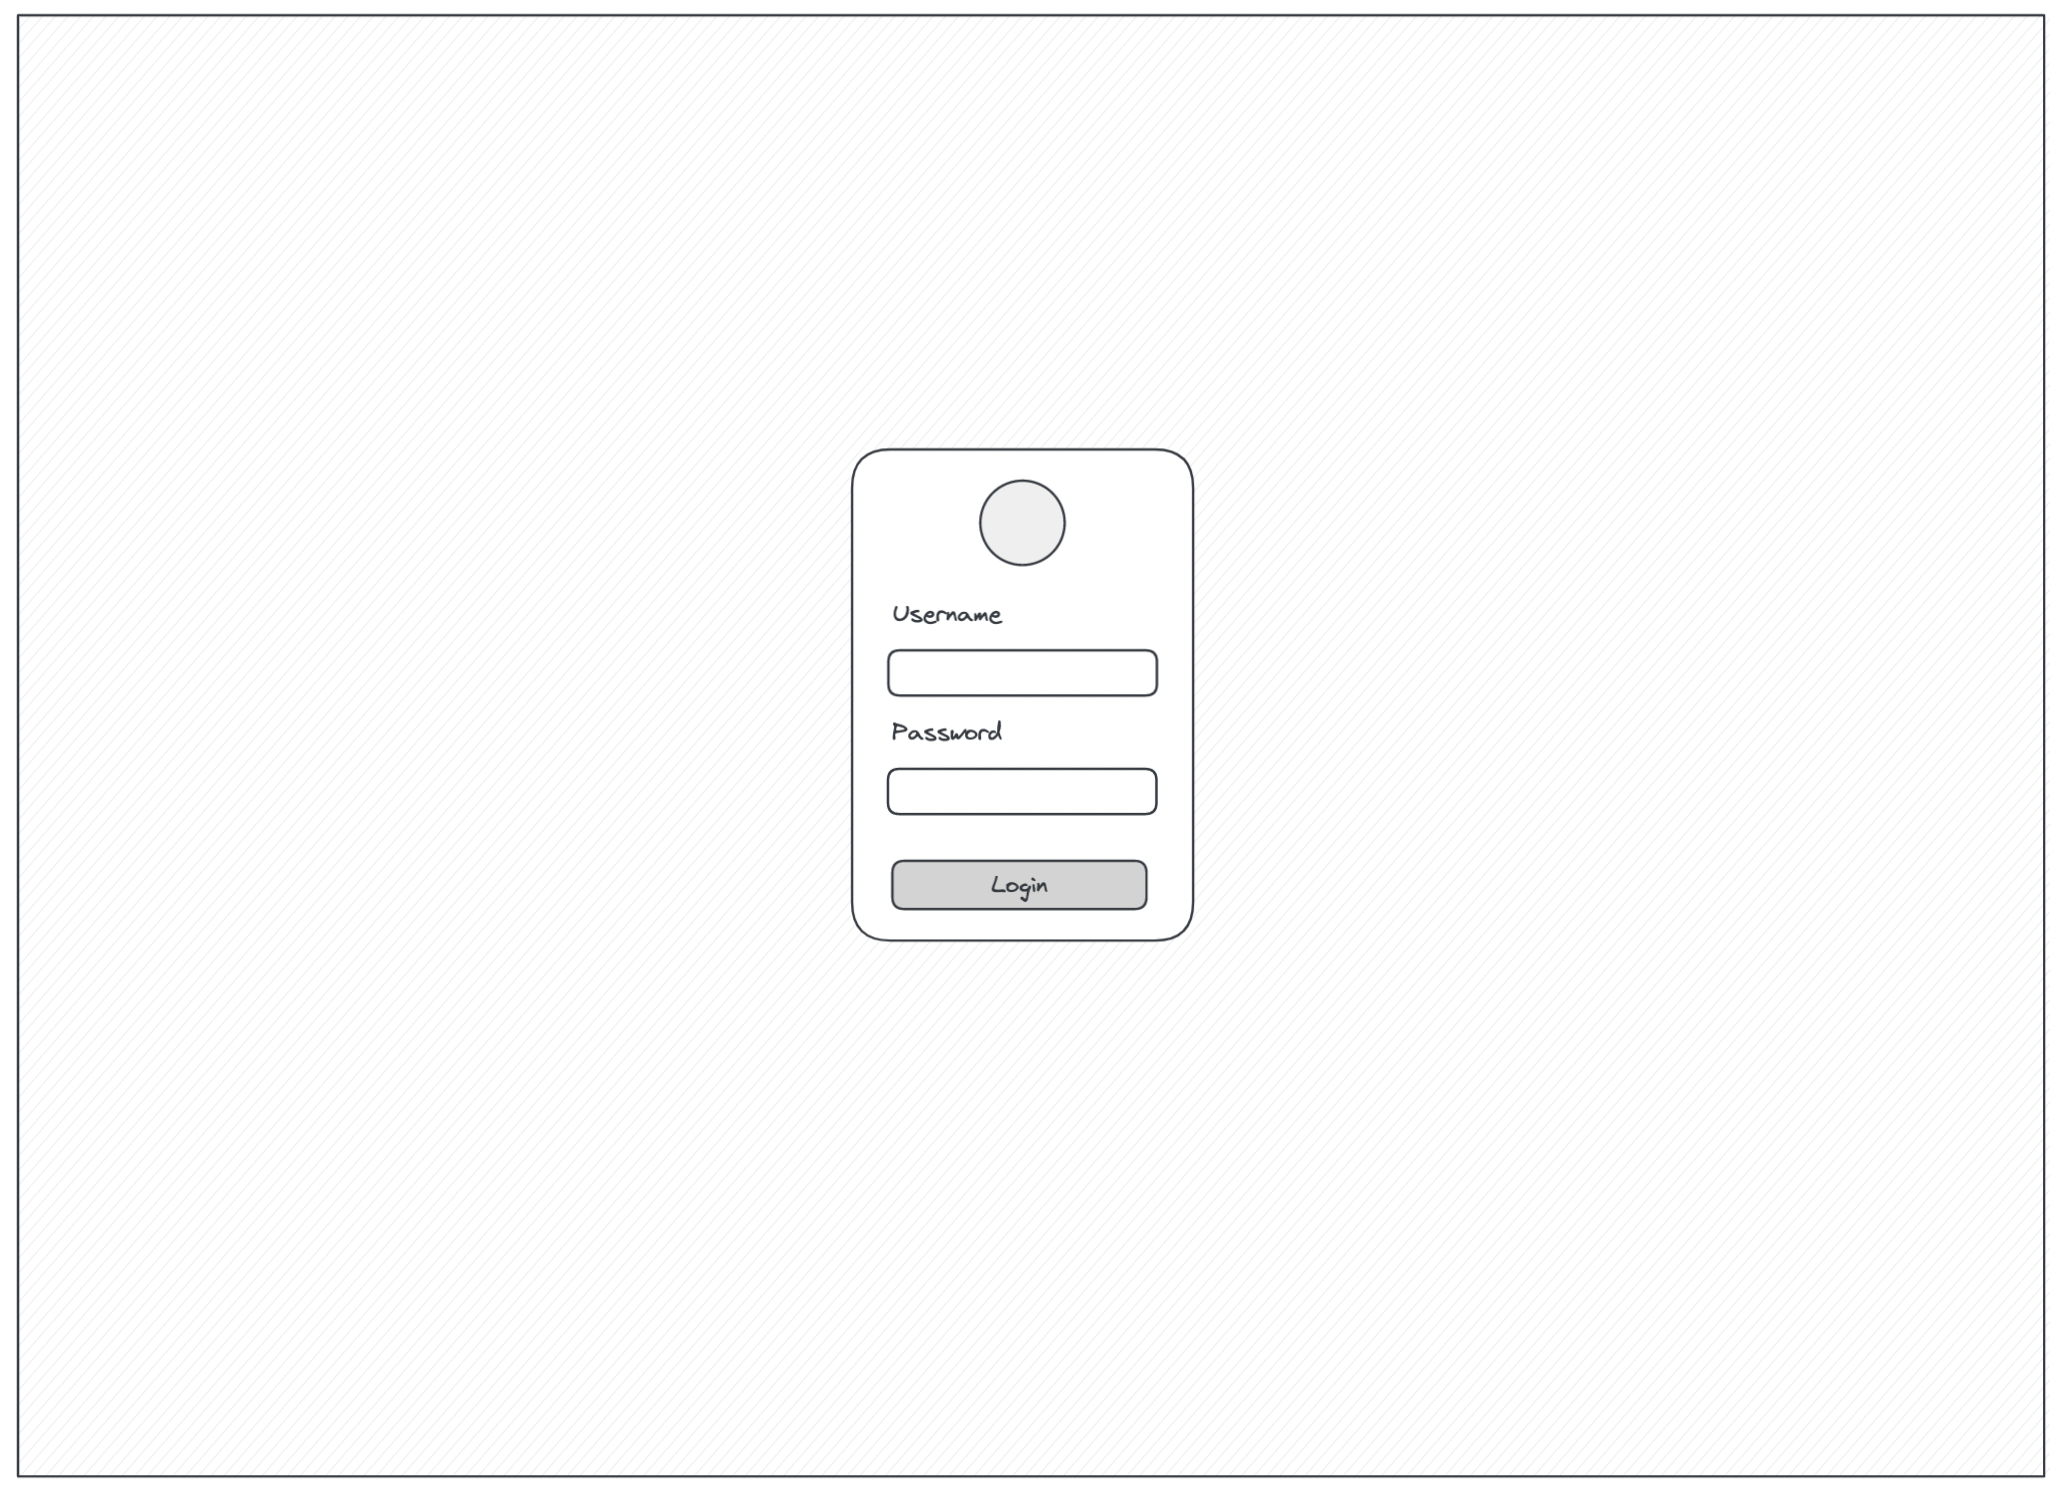
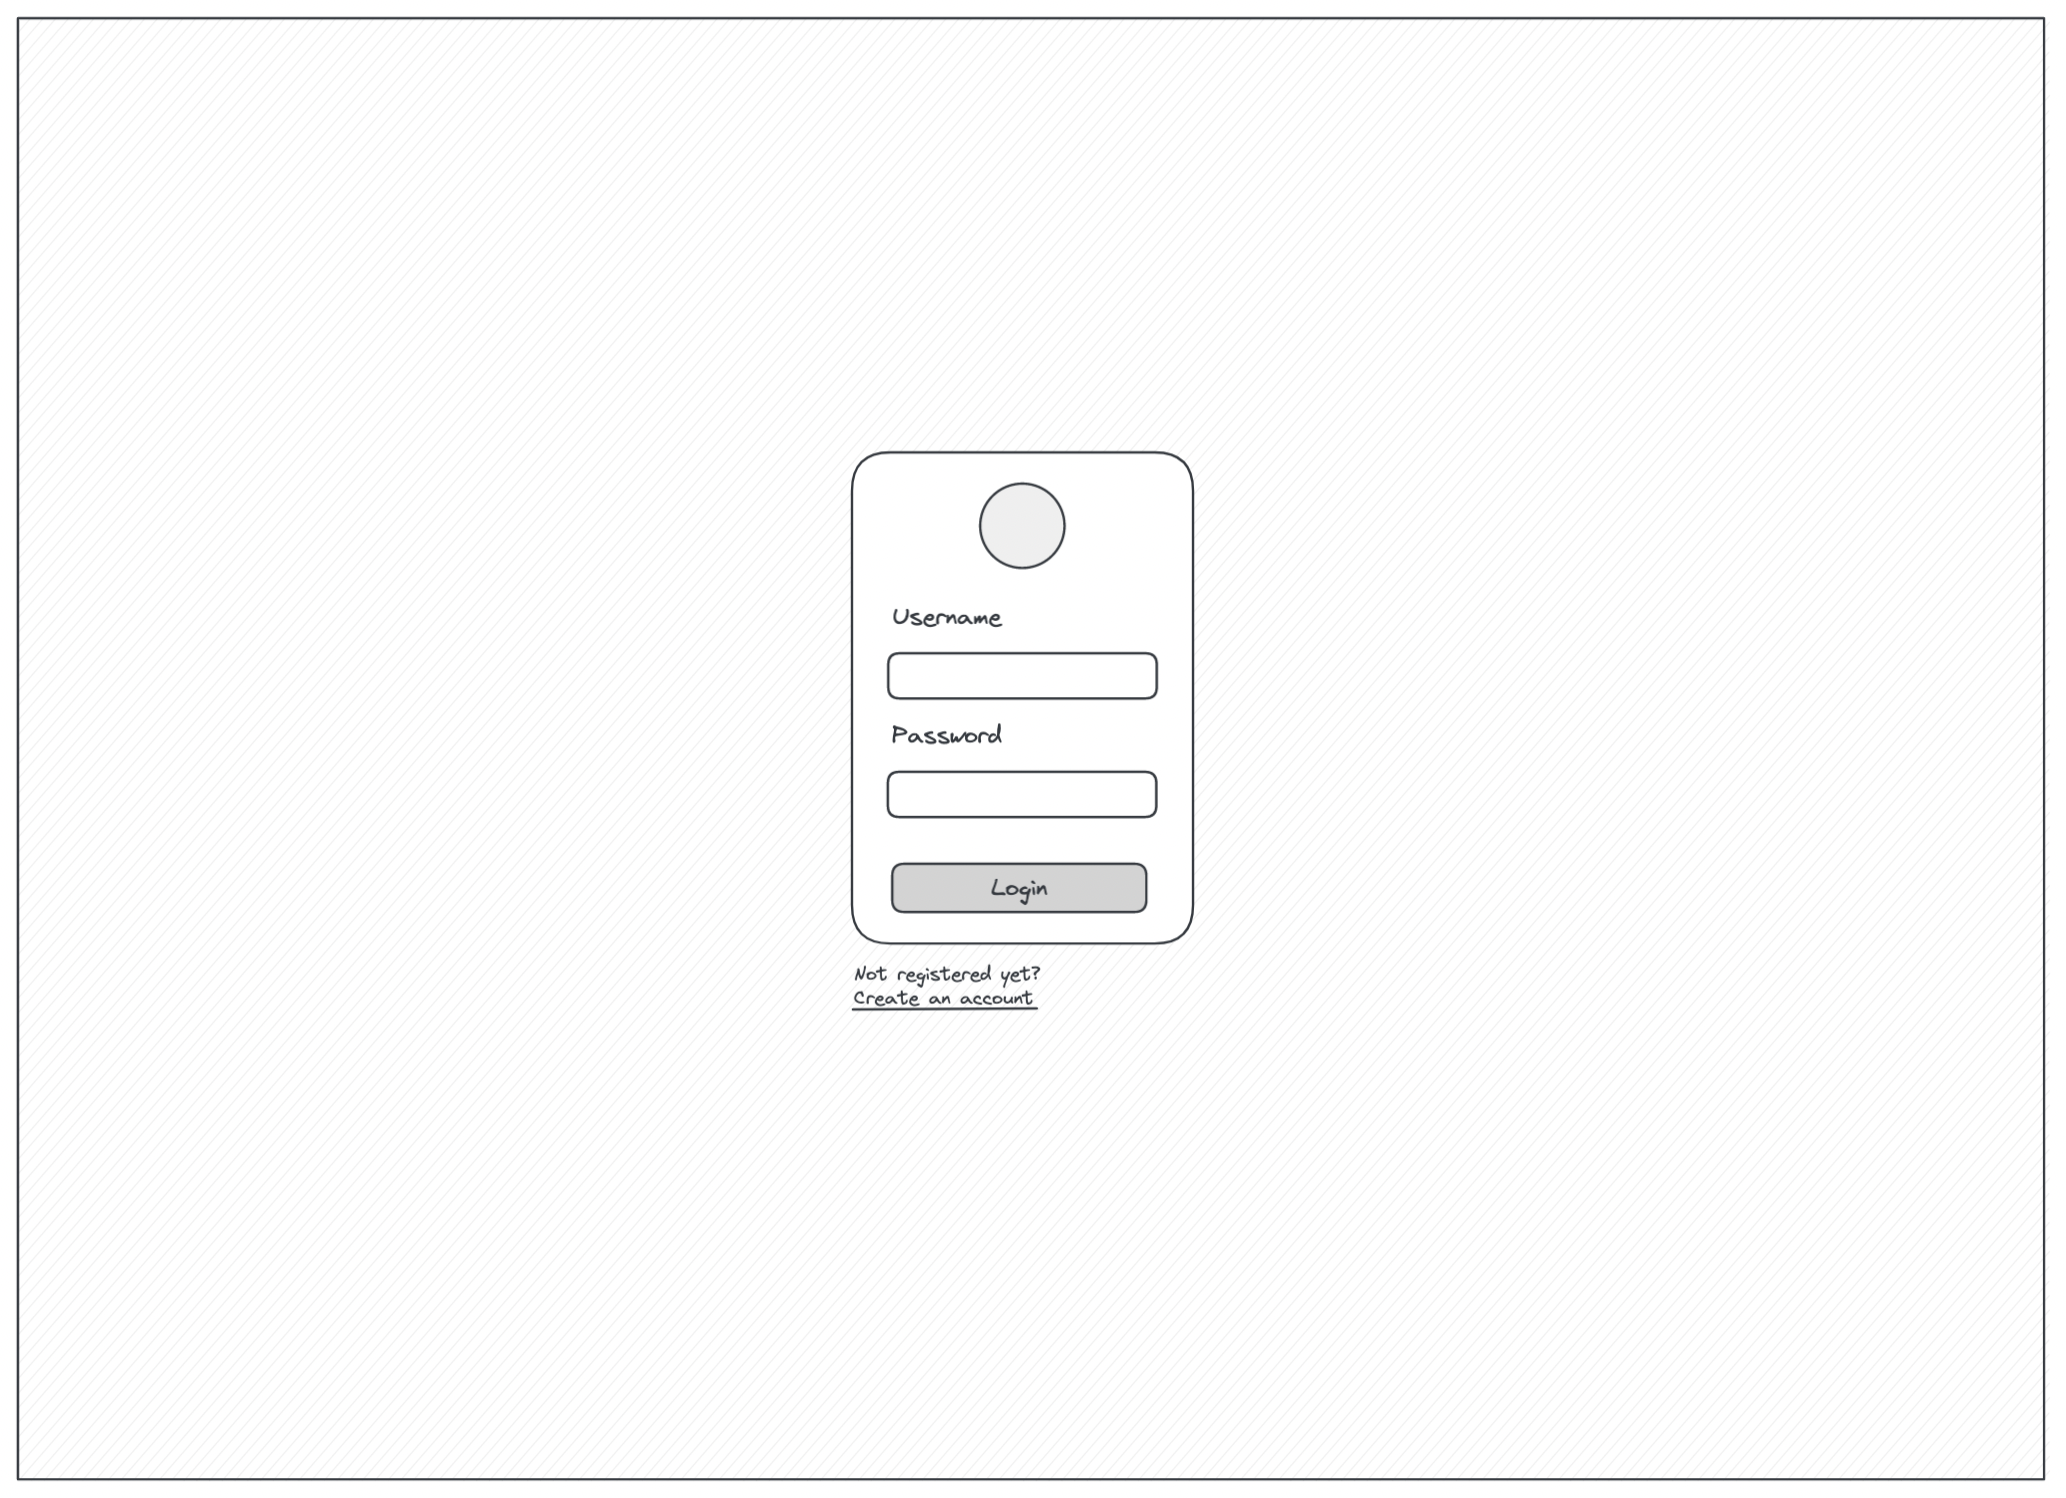
Add last screenshots and component detail

Changed region(s): [[0.4035, 0.4019, 0.5897, 0.6801], [0.0, 0.9583, 0.9932, 1.0], [0.0, 0.0, 0.9932, 0.0309]]

diff --git a/exercise/README.md b/exercise/README.md
@@ -1,7 +1,6 @@
 # Spotify Clone
 
-![Browse](./assets/page-browse.png)
-TODO: Add picture of browse page including player
+![Browse](./assets/preview.png)
 
 Over the next weeks, we're building a spotify clone. Users can register/login,
 play songs, add sonst to their own playlists and much more.
@@ -13,12 +12,12 @@ Alternatively the existing in memory database can be used, but brings the
 downside that state is not persistend.
 
 To not waste so much time, a Turborepo has been prepared with both a Next.js App
-and a GraphQL Server App. TODO: Link to the prepared repo
+and a GraphQL Server App.
 
 In addition, to not waste much time on tedious CSS work, for the frontend we'll
 be using the React UI library [mui](https://mui.com/).
 
-Data for artists and songs already exists in a JSON file. (TODO Link to data file)
+Data for artists and songs already exists in the respective `*.data.ts` files.
 
 ## Pages / Requirements
 
@@ -53,8 +52,7 @@ Data for artists and songs already exists in a JSON file. (TODO Link to data fil
 - The User can login with username and password
 - When login is not successfull, an error message is displayed
 - When login is successfull, the user will get redirected to the browse page
-- TODO: Add link to login page
-- TODO: Update image
+- Links to the registration page in case the user is not registered yet
 
 ### Register
 
@@ -67,8 +65,7 @@ Data for artists and songs already exists in a JSON file. (TODO Link to data fil
   - The password should contain at least 3 characters
 - Security is not really part of the tutorial, so the password can be stored unhashed as text
 - Upon successfull registration the user is automatically logged in and redirected to the browse page
-- TODO: Add link to login page
-- TODO: Update image
+- Links to the login page in case the user is already registered
 
 ### Artists overview
 
@@ -188,12 +185,12 @@ Data for artists and songs already exists in a JSON file. (TODO Link to data fil
 
 - Displays a list of songs
 - See image for functionality of the list
-- TODO: Add functionality descriptions
 
 ### Player
 
-// TODO: Screenshot of Player
-// TODO: Funktionsbeschrieb vom Player
+![Player](./assets/component-player.png)
+
+- See image for functionality of the list
 
 ## Process / Progress
 
@@ -202,11 +199,13 @@ Data for artists and songs already exists in a JSON file. (TODO Link to data fil
 Focus on getting started with the Server.
 
 - Getting familiar with the repository
-- Hook up a real Database if needed
+- Hook up a real Database if needed/wanted
+  - If you don't state is not persistend and will be deleted every time the server restarts
 - Implement the GraphQL Schema for the existing data of artists & songs
   - Implement the corresponding resolvers to fetch the artists & songs
 - Implement the GraphQL Schema for users (registration/login)
   - Implement the corresponding resolvers to register and log in
+  - Security is not really part of the exercise, so just storing the password of the user in plain text is fine
 
 ### 2. Week
 
@@ -247,9 +246,4 @@ Try to finish one chunk after the other instead of trying to finish everything a
 
 ## Hilfreiche Ressourcen
 
-- Login -> TODO Video verlinken von MAx bezügöich GraphQL
-- MongoDB aufsetzen & nutzen -> TODO Ressource suchen
-
-## Quickstart
-
-TODO Add information about turborepo
+- Youtube Course with React, Node.js, MongoDB and GraphQL: https://www.youtube.com/watch?v=7giZGFDGnkc&list=PL55RiY5tL51rG1x02Yyj93iypUuHYXcB_&index=1
